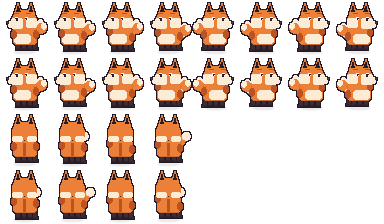
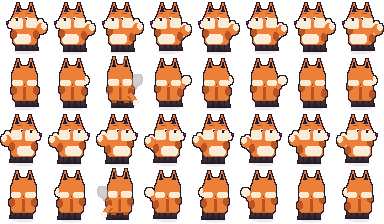
Complete 4-directional character animation set with back-view jump poses and enemy variants - Generate proper back-view jump animations for all 9 hero skins, replacing side-jump silhouettes in unified 4dir sheets - Create dedicated back-view sprite sheets for jelly enemies (green, ice, ember) to sup

diff --git a/pixel_art/_tools/gen_final_v5.py b/pixel_art/_tools/gen_final_v5.py
@@ -1,0 +1,306 @@
+"""Final pass v5 — completes the up/down/left/right (side + top-down hybrid) view.
+
+1. BACK-view jump animation for all 9 hero skins (the back rows previously reused
+   a side-jump silhouette; now every skin gets a proper walk-away airborne pose).
+   -> characters/hero_<skin>_back.png        4x2 @48x56
+        row0 = BACK idle0 idle1 JUMP collect      row1 = BACK run0..run3
+   -> rebuilds characters/hero_<skin>_4dir.png  8x4 @48x56
+        row0 = SIDE idle0 idle1 jump collect run0..run3   (faces LEFT)
+        row1 = BACK idle0 idle1 JUMP collect run0..run3   (move DOWN / away)
+        row2 = BACK mirrored (faces RIGHT while moving away)
+        row3 = SIDE mirrored (faces RIGHT)
+      "move UP" reuses the same BACK frames with Sprite2D.flip_v = true at
+      runtime — standard trick for this projection, no extra art needed.
+
+2. Back-view sheets for the jelly enemies:
+   -> enemies/jelly_green_back.png / jelly_ice_back.png / jelly_ember_back.png
+      (same 5x2 @32 grid as their front sheets)
+
+3. Extra footstep dust per world (sprint double-kick + slide/skid cloud):
+   -> effects/dust_meadow_extra.png / dust_snow_extra.png / dust_beach_extra.png
+      4x2 @48x56 : row0 sprint(4), row1 skid(4) — palettes matched to each ground.
+
+4. Animated water-edge foam strips for the river & sea boundaries:
+   -> ground/foam_river.png  (meadow/river edge, 4-frame cycle, 16x16 cells)
+   -> ground/foam_sea.png    (beach surf edge, 4-frame cycle)
+"""
+import os, sys, random
+sys.path.insert(0, os.path.dirname(__file__))
+from pxlib import *
+from pxlib2 import *
+from PIL import Image, ImageDraw, ImageFilter as IF
+
+CHAR = "/workspace/pixel_art/characters"
+ENEM = "/workspace/pixel_art/enemies"
+FX = "/workspace/pixel_art/effects"
+GND = "/workspace/pixel_art/ground"
+PREV = os.path.join(CHAR, "previews")
+os.makedirs(PREV, exist_ok=True)
+W, H, SCALE = 48, 56, 4
+
+
+def N():
+    return Image.new("RGBA", (W * SCALE, H * SCALE), (0, 0, 0, 0))
+
+
+def cl(im, r, c):
+    """crop cell (r,c) from a sheet of WxH logical cells (already SCALE-scaled)."""
+    return im.crop((c * W * SCALE, r * H * SCALE, (c + 1) * W * SCALE, (r + 1) * H * SCALE))
+
+
+# ====================================================== BACK-JUMP OVERLAYS
+# Per-skin airborne extras drawn on top of the blended back-idle/run body:
+# tucked limbs silhouettes, raised wings/claws/ears, lifted tails.
+def overlay_jump(img, skin):
+    if skin == "penguin":                       # wings thrown up, feet tucked
+        wing = (44, 52, 74, 255); wd = (26, 32, 50, 255)
+        line(img, [(13, 26), (9, 16)], wd, 4); line(img, [(35, 26), (39, 16)], wd, 4)
+        line(img, [(13, 25), (10, 17)], wing, 2); line(img, [(35, 25), (38, 17)], wing, 2)
+        rect(img, 18, 44, 23, 46, (240, 156, 52, 255))       # tucked webbed feet
+        rect(img, 26, 44, 31, 46, (240, 156, 52, 255))
+        ellipse(img, 15, 40, 34, 45, (26, 32, 50, 255))      # tail fan down-flare
+    elif skin == "crab":                        # claws raised, legs splayed in air
+        shell = (226, 92, 74, 255); sd = (150, 52, 44, 255)
+        for sx, dsign in ((12, -1), (36, 1)):      # claws raised overhead
+            line(img, [(sx, 26), (sx + 3 * dsign, 18)], sd, 4)
+            x0, x1 = sorted((sx + dsign - 2, sx + 6 * dsign))
+            ellipse(img, x0, 12, x1, 19, shell)
+        for i, lx in enumerate((16, 22, 27, 32)):            # curled swim legs
+            line(img, [(lx, 42), (lx + (2 if i % 2 else -2), 45)], sd, 2)
+    elif skin == "bunny":                       # ears flopped up, feet kicked back
+        fd = (196, 190, 206, 255)
+        line(img, [(20, 8), (18, 1)], fd, 3); line(img, [(28, 8), (30, 1)], fd, 3)
+        ellipse(img, 21, 42, 27, 47, (252, 252, 255, 255))   # cotton tail puffs out
+        rect(img, 15, 44, 20, 46, fd); rect(img, 29, 44, 34, 46, fd)
+    elif skin == "fox":                         # big tail streaming downward-back
+        fur = (236, 138, 62, 255); fd = (178, 92, 40, 255)
+        line(img, [(33, 38), (39, 46)], fd, 6)
+        line(img, [(33, 37), (38, 44)], fur, 4)
+        ellipse(img, 37, 44, 42, 49, (252, 244, 232, 255))   # white tail tip
+        rect(img, 16, 44, 20, 46, fd); rect(img, 28, 44, 32, 46, fd)  # paws tucked
+    elif skin == "cat":                         # tail curling up, hind legs tucked
+        fur = (120, 128, 150, 255); fd = (78, 84, 106, 255)
+        line(img, [(34, 40), (40, 32), (38, 24)], fd, 3)     # S-curve airborne tail
+        line(img, [(34, 39), (39, 32), (37, 25)], fur, 2)
+        rect(img, 17, 43, 22, 45, fd); rect(img, 27, 43, 32, 45, fd)
+    elif skin == "owl":                         # wings spread wide, talons folded
+        feather = (150, 112, 78, 255); fdd = (96, 66, 44, 255)
+        line(img, [(14, 28), (6, 20)], fdd, 5); line(img, [(34, 28), (42, 20)], fdd, 5)
+        line(img, [(14, 27), (8, 21)], feather, 3); line(img, [(34, 27), (40, 21)], feather, 3)
+        rect(img, 20, 44, 23, 46, (240, 190, 90, 255)); rect(img, 26, 44, 29, 46, (240, 190, 90, 255))
+    elif skin == "snow":                        # scarf streams upward in the wind
+        scarf = (226, 84, 96, 255)
+        line(img, [(28, 14), (36, 6), (40, 2)], scarf, 3)    # trailing scarf ends
+        rect(img, 17, 45, 22, 47, (60, 44, 36, 255)); rect(img, 27, 45, 32, 47, (60, 44, 36, 255))
+    elif skin == "beach":                       # sunhat lifts off, sandals tuck
+        hat = (244, 214, 120, 255)
+        ellipse(img, 16, 2, 33, 8, hat)                     # hat floating higher
+        rect(img, 15, 45, 21, 47, (196, 128, 96, 255)); rect(img, 27, 45, 33, 47, (196, 128, 96, 255))
+    else:                                       # default adventurer: pack bounces up
+        strap = (122, 84, 54, 255)
+        rect(img, 20, 12, 29, 15, strap)                    # pack top lifted
+        rect(img, 16, 45, 22, 47, (60, 44, 36, 255)); rect(img, 26, 45, 32, 47, (60, 44, 36, 255))
+    # universal motion streaks under the feet
+    d = ImageDraw.Draw(img)
+    for x0, x1, a in ((18, 24, 70), (27, 35, 95), (21, 31, 55)):
+        y = 52
+        d.line([x0 * SCALE, y * SCALE, x1 * SCALE, y * SCALE], fill=(255, 255, 255, a), width=SCALE)
+
+
+def make_back_jump(src_big, skin):
+    """Blend back-idle (row2 col0) with back-run stride (row2 col3), stretch
+    slightly, lift off ground, then add skin-specific airborne overlay."""
+    idle = cl(src_big, 2, 0)
+    run = cl(src_big, 2, 3)
+    base = Image.blend(idle.convert("RGB"), run.convert("RGB"), 0.55).convert("RGBA")
+    alpha = Image.blend(idle.split()[3], run.split()[3], 0.5)
+    base.putalpha(alpha)
+    w, h = base.size
+    stretched = base.resize((int(w * 0.96), int(h * 1.05)), Image.LANCZOS)
+    canvas = Image.new("RGBA", (w, h), (0, 0, 0, 0))
+    canvas.paste(stretched, (int(w * 0.02), -int(h * 0.035)), stretched)
+    ov = N()
+    overlay_jump(ov, skin)
+    canvas = Image.alpha_composite(canvas, ov)
+    return soften_edges(canvas, edge_col=(34, 24, 48, 255), strength=0.5)
+
+
+SKINS = ["default", "snow", "beach", "penguin", "crab", "bunny", "fox", "cat", "owl"]
+
+print("--- hero back sheets + rebuilt 4dir ---")
+for skin in SKINS:
+    src = os.path.join(CHAR, f"hero_{skin}.png")
+    if not os.path.exists(src):
+        print("skip (missing):", src); continue
+    im = Image.open(src).convert("RGBA")          # native 192x224
+    big = im.resize((im.width * SCALE, im.height * SCALE), Image.NEAREST)
+    def cell(r, c):
+        return im.crop((c * W, r * H, (c + 1) * W, (r + 1) * H))
+    jump_back = make_back_jump(big, skin)         # SCALE-space 48*4 x 56*4
+    # standalone back sheet 4x2 @48x56 (native pixels)
+    back_sheet = Image.new("RGBA", (W * 4, H * 2), (0, 0, 0, 0))
+    seq0 = [cell(2, 0), cell(2, 1), jump_back.resize((W, H), Image.NEAREST), cell(2, 3)]
+    for c, fr in enumerate(seq0):
+        back_sheet.paste(fr, (c * W, 0))
+    for c in range(4):
+        back_sheet.paste(cell(3, c), (c * W, H))
+    back_sheet.save(os.path.join(CHAR, f"hero_{skin}_back.png"))
+    # unified 4dir 8x4
+    uni = Image.new("RGBA", (W * 8, H * 4), (0, 0, 0, 0))
+    side_row = [cell(0, c) for c in range(4)] + [cell(1, c) for c in range(4)]
+    back_row = seq0 + [cell(3, c) for c in range(4)]
+    for c, fr in enumerate(side_row):
+        uni.paste(fr, (c * W, 0))
+    for c, fr in enumerate(back_row):
+        uni.paste(fr, (c * W, H))
+    for r in range(2):
+        for c in range(8):
+            fr = uni.crop((c * W, r * H, (c + 1) * W, (r + 1) * H)).transpose(Image.FLIP_LEFT_RIGHT)
+            uni.paste(fr, (c * W, (2 + r) * H))
+    uni.save(os.path.join(CHAR, f"hero_{skin}_4dir.png"))
+    # preview strip @3x: back idle, jump, collect, run0..3
+    pv = Image.new("RGBA", (7 * W, H), (0, 0, 0, 0))
+    seq = [cell(2, 0), seq0[2], cell(2, 3), cell(3, 0), cell(3, 1), cell(3, 2), cell(3, 3)]
+    for c, fr in enumerate(seq):
+        pv.paste(fr, (c * W, 0), fr)
+    pv.resize((pv.width * 3, pv.height * 3), Image.NEAREST).save(
+        os.path.join(PREV, f"hero_{skin}_back_idle_jump_run@3x.png"))
+    print("ok: hero_%s_back.png + hero_%s_4dir.png" % (skin, skin))
+
+
+# ===================================================== JELLY ENEMY BACK SHEETS
+print("--- jelly enemy back sheets ---")
+JCOL = {
+    "jelly_green": ((120, 210, 120, 235), (60, 130, 70, 255), (190, 245, 190, 255)),
+    "jelly_ice":   ((150, 215, 245, 235), (80, 140, 190, 255), (220, 245, 255, 255)),
+    "jelly_ember": ((235, 130, 70, 235), (150, 60, 40, 255), (255, 210, 140, 255)),
+}
+ew, eh, ES = 32, 32, 4
+def EN():
+    return Image.new("RGBA", (ew * ES, eh * ES), (0, 0, 0, 0))
+
+def blob_back(img, cols, sq, tent=0):
+    col, col_d, col_l = cols
+    cx, base = 16, 26
+    w = int(10 + sq * 0.5); h = int(9 - sq)
+    ellipse(img, cx - w, base - 2 * h, cx + w, base, col)
+    rect(img, cx - w, base - h, cx + w, base, col)
+    rrect(img, cx - w + 1, base - 2 * h - 2, cx + w - 1, base - 4, col, radius=3)
+    bottom_shade(img, cx - w, base - 2 * h, cx + w, base, None, 40)
+    top_light(img, cx - w + 2, base - 2 * h + 1, cx + w - 2, base - h, None, 30)
+    ellipse(img, cx - 4, base - 2 * h + 2, cx + 1, base - h + 1, lighter(col, 40, 180))
+    for tx in range(cx - w + 2, cx + w - 1, 3):              # tentacle fringe
+        line(img, [(tx, base - 1), (tx + tent, base + 2)], col_d, 1)
+
+for name, cols in JCOL.items():
+    sh = Sheet(5, ew, eh, rows=2)
+    for sq in (0, -1, 0, 1):                                 # idle breathe
+        img = EN(); blob_back(img, cols, sq)
+        sh.add(finalize(img, (34, 24, 48, 255)))
+    img = EN(); blob_back(img, cols, 0)
+    sh.add(finalize(img, (34, 24, 48, 255)))
+    for j, wob in enumerate((-2, -1, 1, 2)):                 # move waddle
+        img = EN(); blob_back(img, cols, 0 if j % 2 else 1, tent=wob)
+        sh.add(finalize(img, (34, 24, 48, 255)))
+    img = EN(); blob_back(img, cols, 3)                      # squash/hit
+    sh.add(finalize(img, (34, 24, 48, 255)))
+    canvas = sh.save(os.path.join(ENEM, f"{name}_back.png"))
+    canvas.resize((canvas.width * 3, canvas.height * 3), Image.NEAREST).save(
+        os.path.join(ENEM, "previews", f"{name}_back@3x.png"))
+    print("ok: enemies/%s_back.png" % name)
+
+
+# ====================================================== EXTRA DUST VARIANTS
+print("--- extra dust variants ---")
+MEADOW_P = [(214, 190, 140, 255), (190, 165, 115, 255), (168, 142, 96, 255)]
+SNOW_P = [(236, 244, 252, 255), (214, 228, 242, 255), (196, 212, 230, 255)]
+BEACH_P = [(240, 222, 170, 255), (222, 200, 148, 255), (200, 178, 126, 255)]
+CHIPS = {"meadow": [(120, 160, 90, 255), (150, 120, 80, 255)],
+         "snow": [(180, 210, 235, 255), (210, 235, 250, 255)],
+         "beach": [(235, 205, 150, 255), (170, 210, 220, 255)]}
+
+def puff(dx, dy, r, col):
+    img = N()
+    ellipse(img, dx - r, dy - r, dx + r, dy + r, col)
+    return img.filter(IF.GaussianBlur(SCALE))
+
+def grain(name, pal, chips):
+    rnd = random.Random(11)
+    sprint, skid = [], []
+    for f in range(4):                       # sprint: alternating double kicks
+        img = N()
+        kx = 26 if f % 2 == 0 else 33
+        for i in range(3 + (f > 1)):
+            dx = kx + rnd.randint(-2, 8) + f * 3
+            dy = 47 - rnd.randint(0, 3) - f
+            r = rnd.randint(2, 5)
+            img = Image.alpha_composite(img, puff(dx, dy, r, shade(pal[i % len(pal)], da=90 - f * 20)))
+        for i in range(3):
+            px(img, 28 + rnd.randint(0, 14) + f * 2, 45 - rnd.randint(0, 5),
+               chips[rnd.randrange(len(chips))])
+        sprint.append(img)
+    for f in range(4):                       # skid: long low dragged cloud
+        img = N()
+        for i in range(5):
+            dx = 28 + i * 3 + f * 2
+            dy = 48 + rnd.randint(-1, 1)
+            r = max(1, 5 - i) + (0 if f < 2 else -1)
+            img = Image.alpha_composite(img, puff(dx, dy, r,
+                              shade(pal[i % len(pal)], da=110 - f * 25 - i * 8)))
+        if f < 3:
+            for i in range(2):
+                px(img, 30 + rnd.randint(2, 16), 47, chips[rnd.randrange(len(chips))])
+        skid.append(img)
+    sh = Sheet(4, W, H, rows=2)
+    for fr in sprint + skid:
+        sh.add(fr)
+    canvas = sh.save(os.path.join(FX, f"dust_{name}_extra.png"))
+    pv = canvas.resize((canvas.width * 3, canvas.height * 3), Image.NEAREST)
+    pv.save(os.path.join(FX, "previews", f"dust_{name}_extra@3x.png"))
+    print("ok: effects/dust_%s_extra.png" % name)
+
+grain("meadow", MEADOW_P, CHIPS["meadow"])
+grain("snow", SNOW_P, CHIPS["snow"])
+grain("beach", BEACH_P, CHIPS["beach"])
+
+
+# ======================================================== WATER EDGE FOAM
+print("--- foam strips ---")
+def lerp_col(a, b, t):
+    return tuple(int(a[i] + (b[i] - a[i]) * t) for i in range(4))
+
+def foam_strip(path, base_a, base_b, seed):
+    """4-frame cycle, 4x1 grid of 16x16 cells."""
+    rnd = random.Random(seed)
+    fw, fh, S = 16, 16, 4
+    sh = Sheet(4, fw, fh)
+    for f in range(4):
+        img = Image.new("RGBA", (fw * S, fh * S), (0, 0, 0, 0))
+        heights = []
+        for x in range(fw):
+            hgt = 6 + int(2.5 * abs(((x + f * 2) % 8) - 4) / 4)
+            heights.append(hgt)
+            rect(img, x, fh - hgt, x, fh - 1, lerp_col(base_a, base_b, ((x + f) % 4) / 4.0))
+        for x in range(fw):                                   # foam caps
+            edge = fh - heights[x]
+            m = (x + f) % 3
+            if m == 0:
+                px(img, x, edge, (245, 252, 255, 235))
+                if rnd.random() < 0.5:
+                    px(img, x, edge - 1, (230, 245, 255, 140))
+            elif m == 1:
+                px(img, x, edge, (215, 238, 250, 190))
+        for _ in range(2):                                    # sparkle bubbles
+            bx, by = rnd.randrange(fw), rnd.randrange(fh - 5, fh - 1)
+            px(img, bx, by, (255, 255, 255, 160))
+        sh.add(img)
+    canvas = sh.save(path)
+    canvas.resize((canvas.width * 3, canvas.height * 3), Image.NEAREST).save(
+        os.path.join(GND, "previews", os.path.basename(path).replace(".png", "@3x.png")))
+    print("ok:", path)
+
+A1 = (96, 176, 214, 200); B1 = (120, 196, 228, 200)     # river/meadow water
+A2 = (70, 150, 200, 205); B2 = (110, 190, 230, 205)     # sea/beach water
+foam_strip(os.path.join(GND, "foam_river.png"), A1, B1, 5)
+foam_strip(os.path.join(GND, "foam_sea.png"), A2, B2, 9)
+print("ALL DONE v5")

diff --git a/pixel_art/README.md b/pixel_art/README.md
@@ -175,3 +175,43 @@ Place exactly one gold per stage as the "shiny" pickup; regular coins stay as-is
 Regenerate: `python _tools/gen_heroes.py gen_hero_animals.py gen_blobs2.py
 gen_ground_mega.py gen_gold_coins.py gen_stage_v3.py gen_bg_v3.py` then
 `python _tools/compose_contact.py && python _tools/make_manifest.py`.
+
+---
+
+## v5 FINAL PASS — 4-direction coverage, back-jump anims, sprint dust, water foam
+
+### hero_<skin>_4dir.png (8 cols x 4 rows of 48x56) — full up/down/left/right set
+| row | content | use for |
+|-----|---------|---------|
+| 0 | SIDE idle0 idle1 **jump** collect run0-run3 (faces LEFT) | move left + jump |
+| 1 | BACK idle0 idle1 **jump (NEW)** collect run0-run3 | move down (away from cam) |
+| 2 | row1 mirrored | move down-right while facing right |
+| 3 | row0 mirrored (faces RIGHT) | move right |
+- **Move UP**: reuse row1/row2 frames with `sprite.flip_v = true` (standard trick
+  for this side+top-down hybrid projection; the back view reads as a front-ish
+  top-down silhouette). Flip H/V in GDScript: `flip_h` for left/right, `flip_v`
+  for up when using the back set.
+- Standalone `hero_<skin>_back.png` (4x2 @48x56) if you only want the back set.
+- Back jump frames are skin-aware: penguin wings-up + tucked webbed feet, crab
+  claws overhead, bunny ears flop + cotton tail puff, fox tail streamer with
+  white tip, cat S-curl tail, owl wings spread + folded talons, snow scarf
+  trailing in wind, beach sunhat lifting off, default pack bounce — all with
+  motion streaks under the feet. See `characters/CONTACT_back_anims.png`.
+
+### enemies/jelly_{green,ice,ember}_back.png
+Back-view 5x2 @32 grids matching their fronts (idle breathe, waddle-move with
+tentacle fringe sway, squash-hit). Blob/slime backs already existed; now ALL
+movers have a walk-away set.
+
+### effects/dust_{meadow,snow,beach}_extra.png  (4x2 @48x56, matches hero cells)
+- row0: **sprint double-kick** — alternating stronger puffs + debris chips
+- row1: **slide/skid** — long low cloud dragged behind the heels (use on direction
+  changes / dash ability)
+Palettes matched to each ground (tan dirt+leaf flecks / powder-white+ice chips /
+gold sand+water spray). Layer under the sprite's feet like the base dust sheets.
+
+### ground/foam_river.png & ground/foam_sea.png
+4-frame animated water-edge foam strips (4x1 @16x16). Place along the boundary
+where `water_river`/`mega_*` meets grass or sand; play at ~6 fps for lapping surf.
+River foam is pale teal (matches meadow river), sea foam is deeper blue-white
+(matches beach). Combine with `waves.png` for open-water animation.
